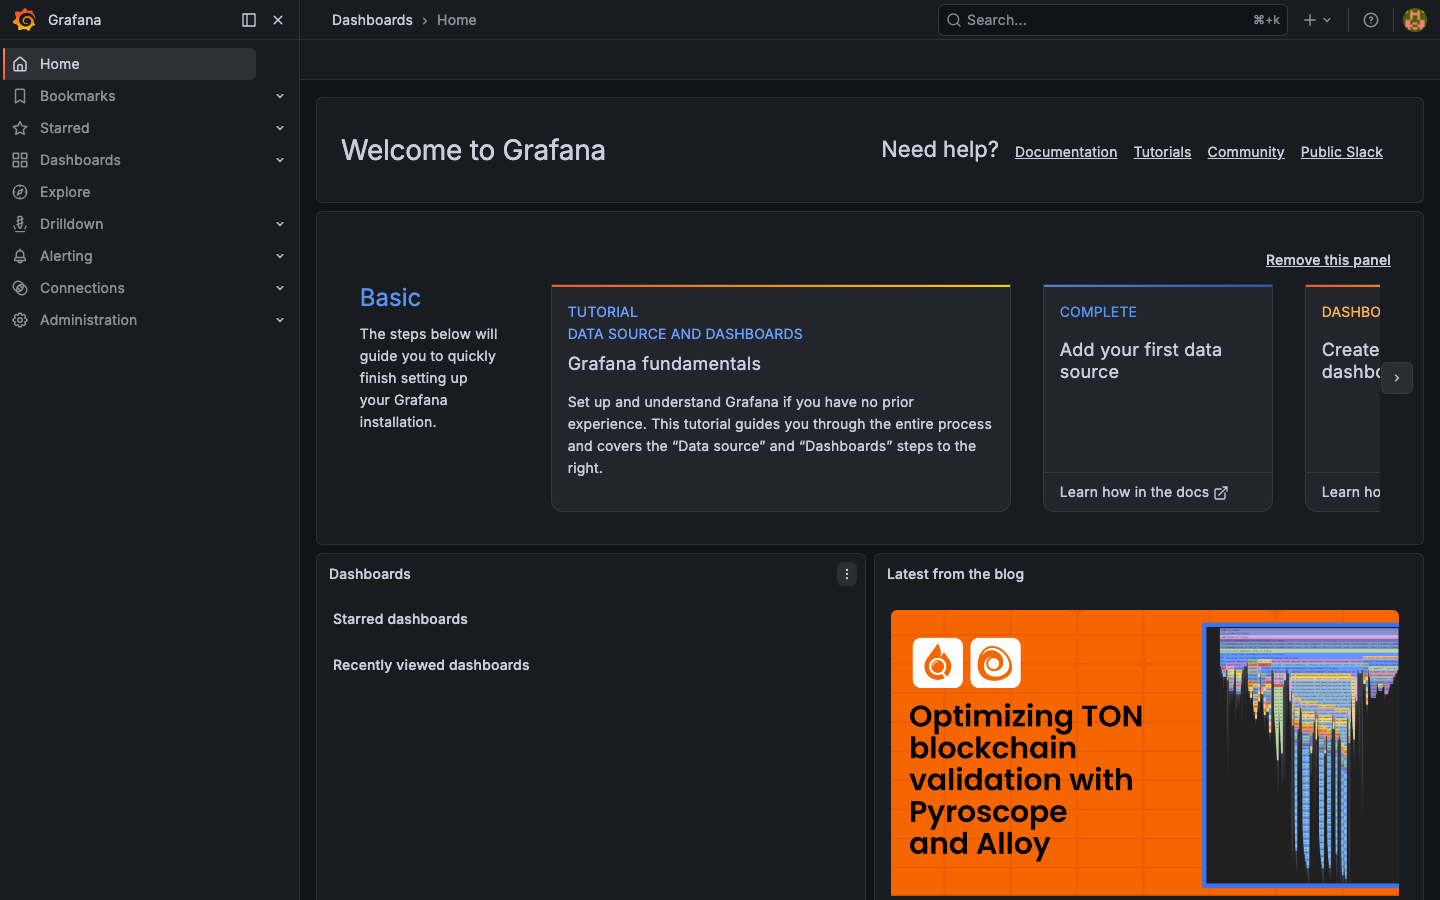
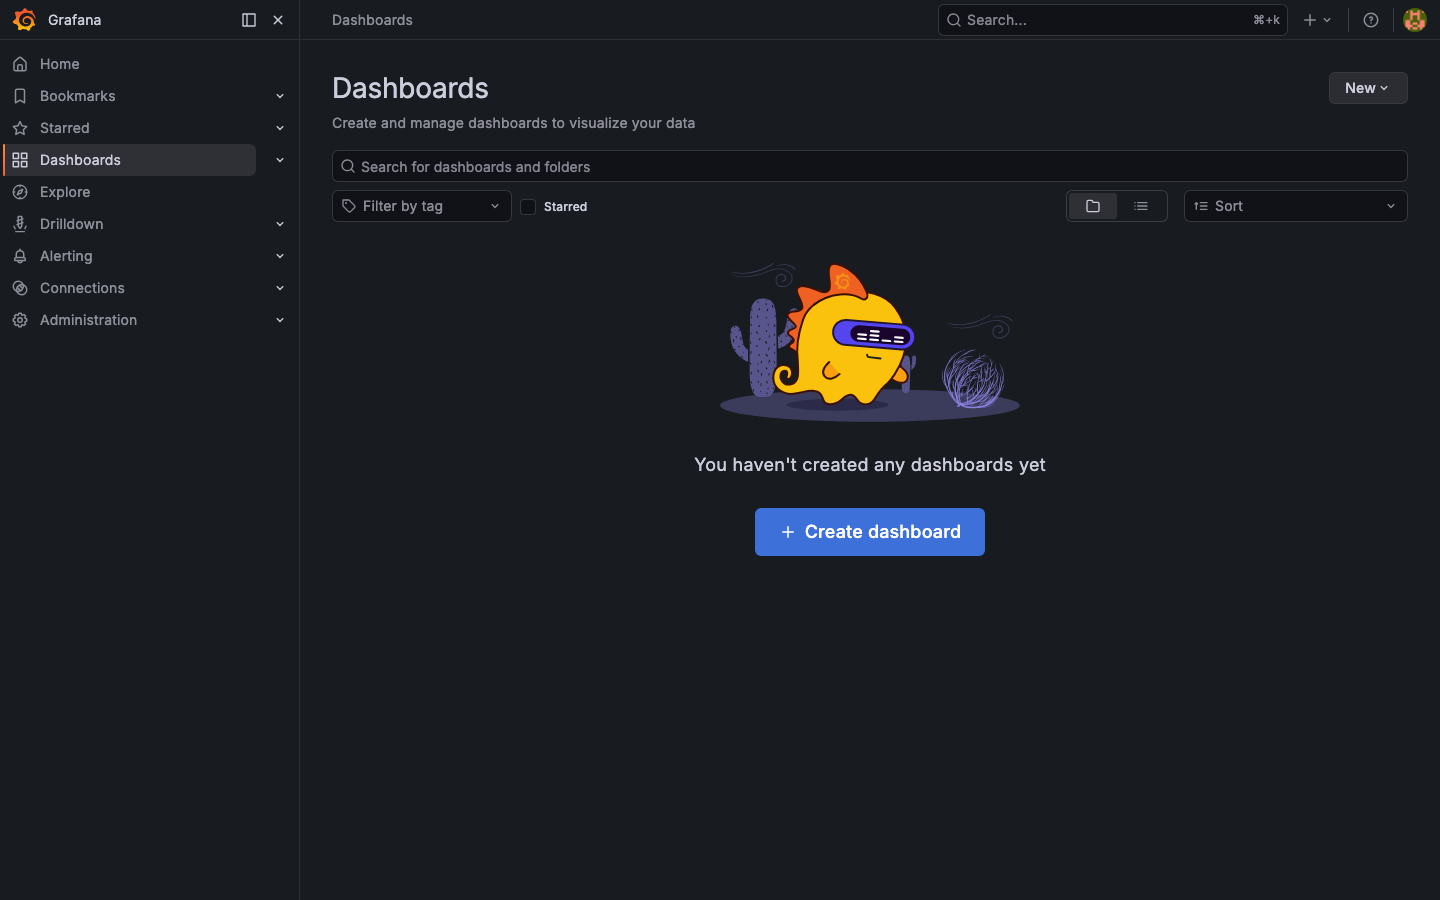
docs: replace tool screenshots with authenticated post-login views
All 10 tool screenshots now show the authenticated dashboard after login:
- Jenkins: home with build pipeline list
- SonarQube: projects dashboard
- Grafana: dashboards home page
- Prometheus: /graph query page
- ArgoCD: applications list
- Vault: secrets engine list
- MinIO: object browser
- Nexus: repository browser (reset password to Admin@123456789@)
- Container Registry: UI with image list
- Loki: Grafana Explore with Loki datasource

Also add Loki screenshot section to README.

diff --git a/README.md b/README.md
@@ -122,6 +122,13 @@ Each tool runs natively in Kubernetes and is accessible from your browser.
 
 ---
 
+### Loki — Log Aggregation
+> `http://localhost:30310` &nbsp;·&nbsp; no auth &nbsp;·&nbsp; Query via Grafana Explore
+
+![Loki via Grafana](docs/screenshots/tool_loki.png)
+
+---
+
 ## MCP Servers — 185+ Tools
 
 | # | Server | MCP Name | Tools | Controls |
